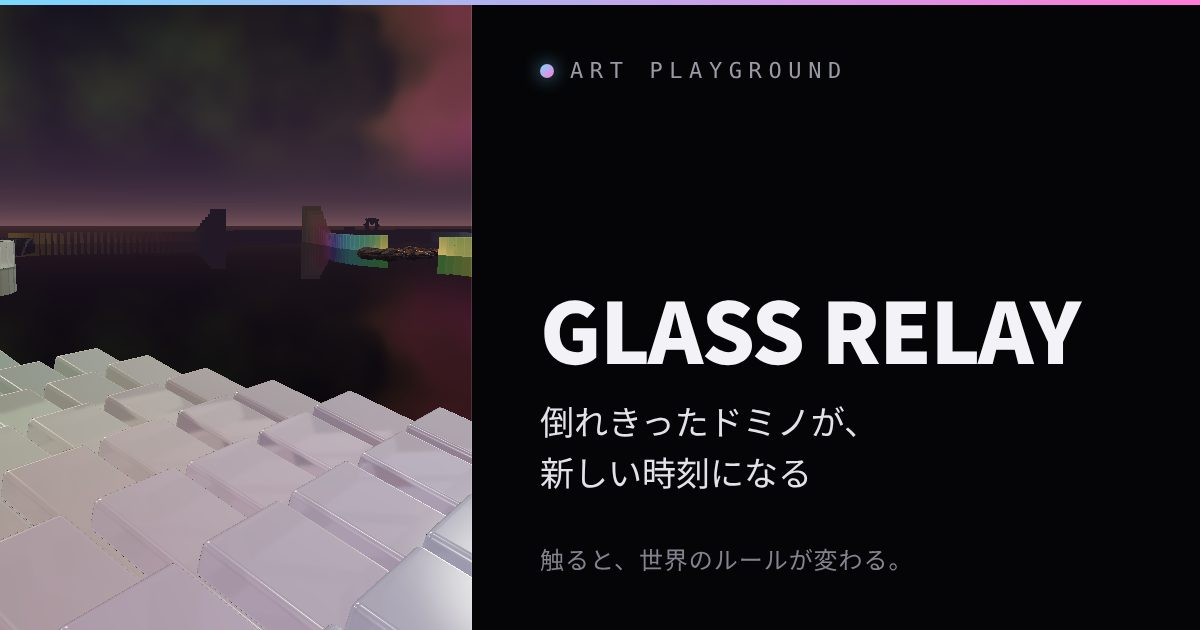
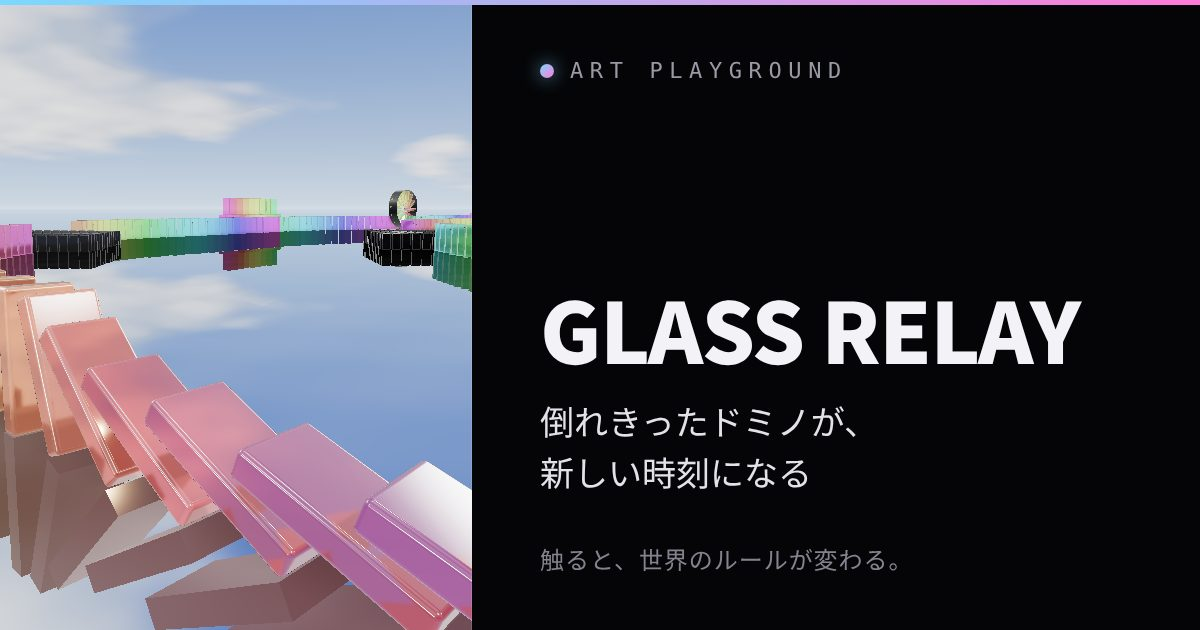
GLASS RELAY: retake posters/OG in sky mirror; add per-work 'query' to poster tools
Claude-Session: https://claude.ai/code/session_019C65K15yvYPuT7X9WdhGin

diff --git a/AGENTS.md b/AGENTS.md
@@ -289,7 +289,7 @@ if (window.APKit && APKit.isUI(x, y)) return true;
 - **対象**: `index.html` の `data-src` に載っている全作品(CURRENT + LOG)。manifestに載った作品にだけ貼られる。無い作品は従来どおり暗いタイルになる(壊れはしないが、作り忘れ)。
 - **いつ作るか**: 作品をギャラリーに足したとき / 作品ファイルを直したとき / CURRENTを替えたとき。`python3 tools/gen_posters.py` が、足りない分と古い分だけ作る。`--check` は作らずに点検する(不足・古いがあれば終了コード1)。
 - **ヒーロー**: `index.html` 先頭の `data-src`(=CURRENT)だけ、大きい版(`<名前>.hero.webp`)も作る。
-- **作品ごとの調整**: 触るまで何も出ない作品・重い作品は `tools/poster-config.json`(`taps` / `holds` / `drags` / `delay` / `timeout` / `hide`。`drags` は押したまま直線でなぞる(TIDE MARKのように、なぞって初めて絵が出る作品用。`holds` は動かさずに押すだけ)。書式は `tools/gen_posters.py` の冒頭)。作ったら画像を目で見て、真っ黒・ほぼ一色でないか確認する(スクリプトも警告する)。
+- **作品ごとの調整**: 触るまで何も出ない作品・重い作品は `tools/poster-config.json`(`taps` / `holds` / `drags` / `delay` / `timeout` / `hide` / `query`。`query` はURLの後ろに付けて撮る文字列で、場面を選べる作品用(例: GLASS RELAY は `?area=sky&tier=3`=天空の鏡・ぼかし無しで撮る。2026/11/27 おっちゃん承認)。`drags` は押したまま直線でなぞる(TIDE MARKのように、なぞって初めて絵が出る作品用。`holds` は動かさずに押すだけ)。書式は `tools/gen_posters.py` の冒頭)。作ったら画像を目で見て、真っ黒・ほぼ一色でないか確認する(スクリプトも警告する)。
 - **操作説明の写り込み**: 作品の冒頭に操作説明(`#hint`)を出す作品は、ポスターにその文字が写ってしまう(消えるのを待つ方式は、自動で消えない作品があり不確実)。`poster-config.json` に `{"hide":["#hint"]}` を足して作り直す(2026/10時点で ANIMAL MANSION・HAMSTER DROP・INNER EYE・RAIN RELAY・RAINBOW WALK・NIGHT SHIFT・HELD TIME に設定済み)。新作に `#hint` があれば同じように足し、できたポスターに文字が写っていないか目で見る。
 - **外部CDN**: p5.js などをCDNから読む作品は、CDNに出られない環境では環境変数 `POSTER_LIB_DIR` が要る(`tools/gen_posters.py` の冒頭)。
 - **サイズ・画質**: タイル344×459、ヒーロー690×920、WebP q70。変えるときは `RENDER_VERSION` を上げる(全ポスターが「古い」扱いになり作り直しになる)。

diff --git a/CHANGELOG.md b/CHANGELOG.md
@@ -1,3 +1,4 @@
+- 2026-11-27 クロちゃん: GLASS RELAY(CURRENT)の静止画(ポスター・ヒーロー・共有カード)を撮り直し(おっちゃん「カレントの静止画カードが気に食わない」「綺麗なやつにして」→天空の鏡を選択)。tools/gen_posters.py と gen_og.py に、poster-config.json の作品ごとの設定 `query`(URLの後ろに付けて撮る文字列)を追加(おっちゃん承認)。GLASS RELAY は `?area=sky&tier=3`(天空の鏡・ぼかし無し。tier=1だとぼかしで全体がにじんだ)。`--check` は両方0。
 - 2026-11-27 クロちゃん: AGENTS.md 1章を「眺める時計」が主、触るルールは「あれば良い」に変更(おっちゃん承認「OK」)。見るところ=時刻が分かるか・眺めて飽きないか・時間とともに移り変わるか・美しいか。それまでの基準(基本ルール10個・陥りやすい失敗)は消さず「触る仕掛けを入れるときの基準」として残した。
 - 2026-11-27 クロちゃん: AGENTS.mdに18章「作る前に重さの見込みを伝える」を追加(おっちゃん「そこを作る前に注意して欲しい」「足してくれ」)。大きめの作業の前に、重さの見込み(軽い/普通/重い+使用量の目安)・重くなる理由・重いときは軽い案を伝える。
 - 2026-11-27 クロちゃん: GLASS RELAY(CURRENT)の鏡のテーブルと天空の鏡の位置を入れ替え(おっちゃん「鏡のテーブルと天空の鏡を逆にしてよ」)。周のはじめ(0分・5分、時刻が出る分)=天空の鏡、前半=水の中→鏡のテーブル→電脳都市→宇宙。`areaOf` に `LAP_START` と巡回の順 `AREA_ROT` を明記。
